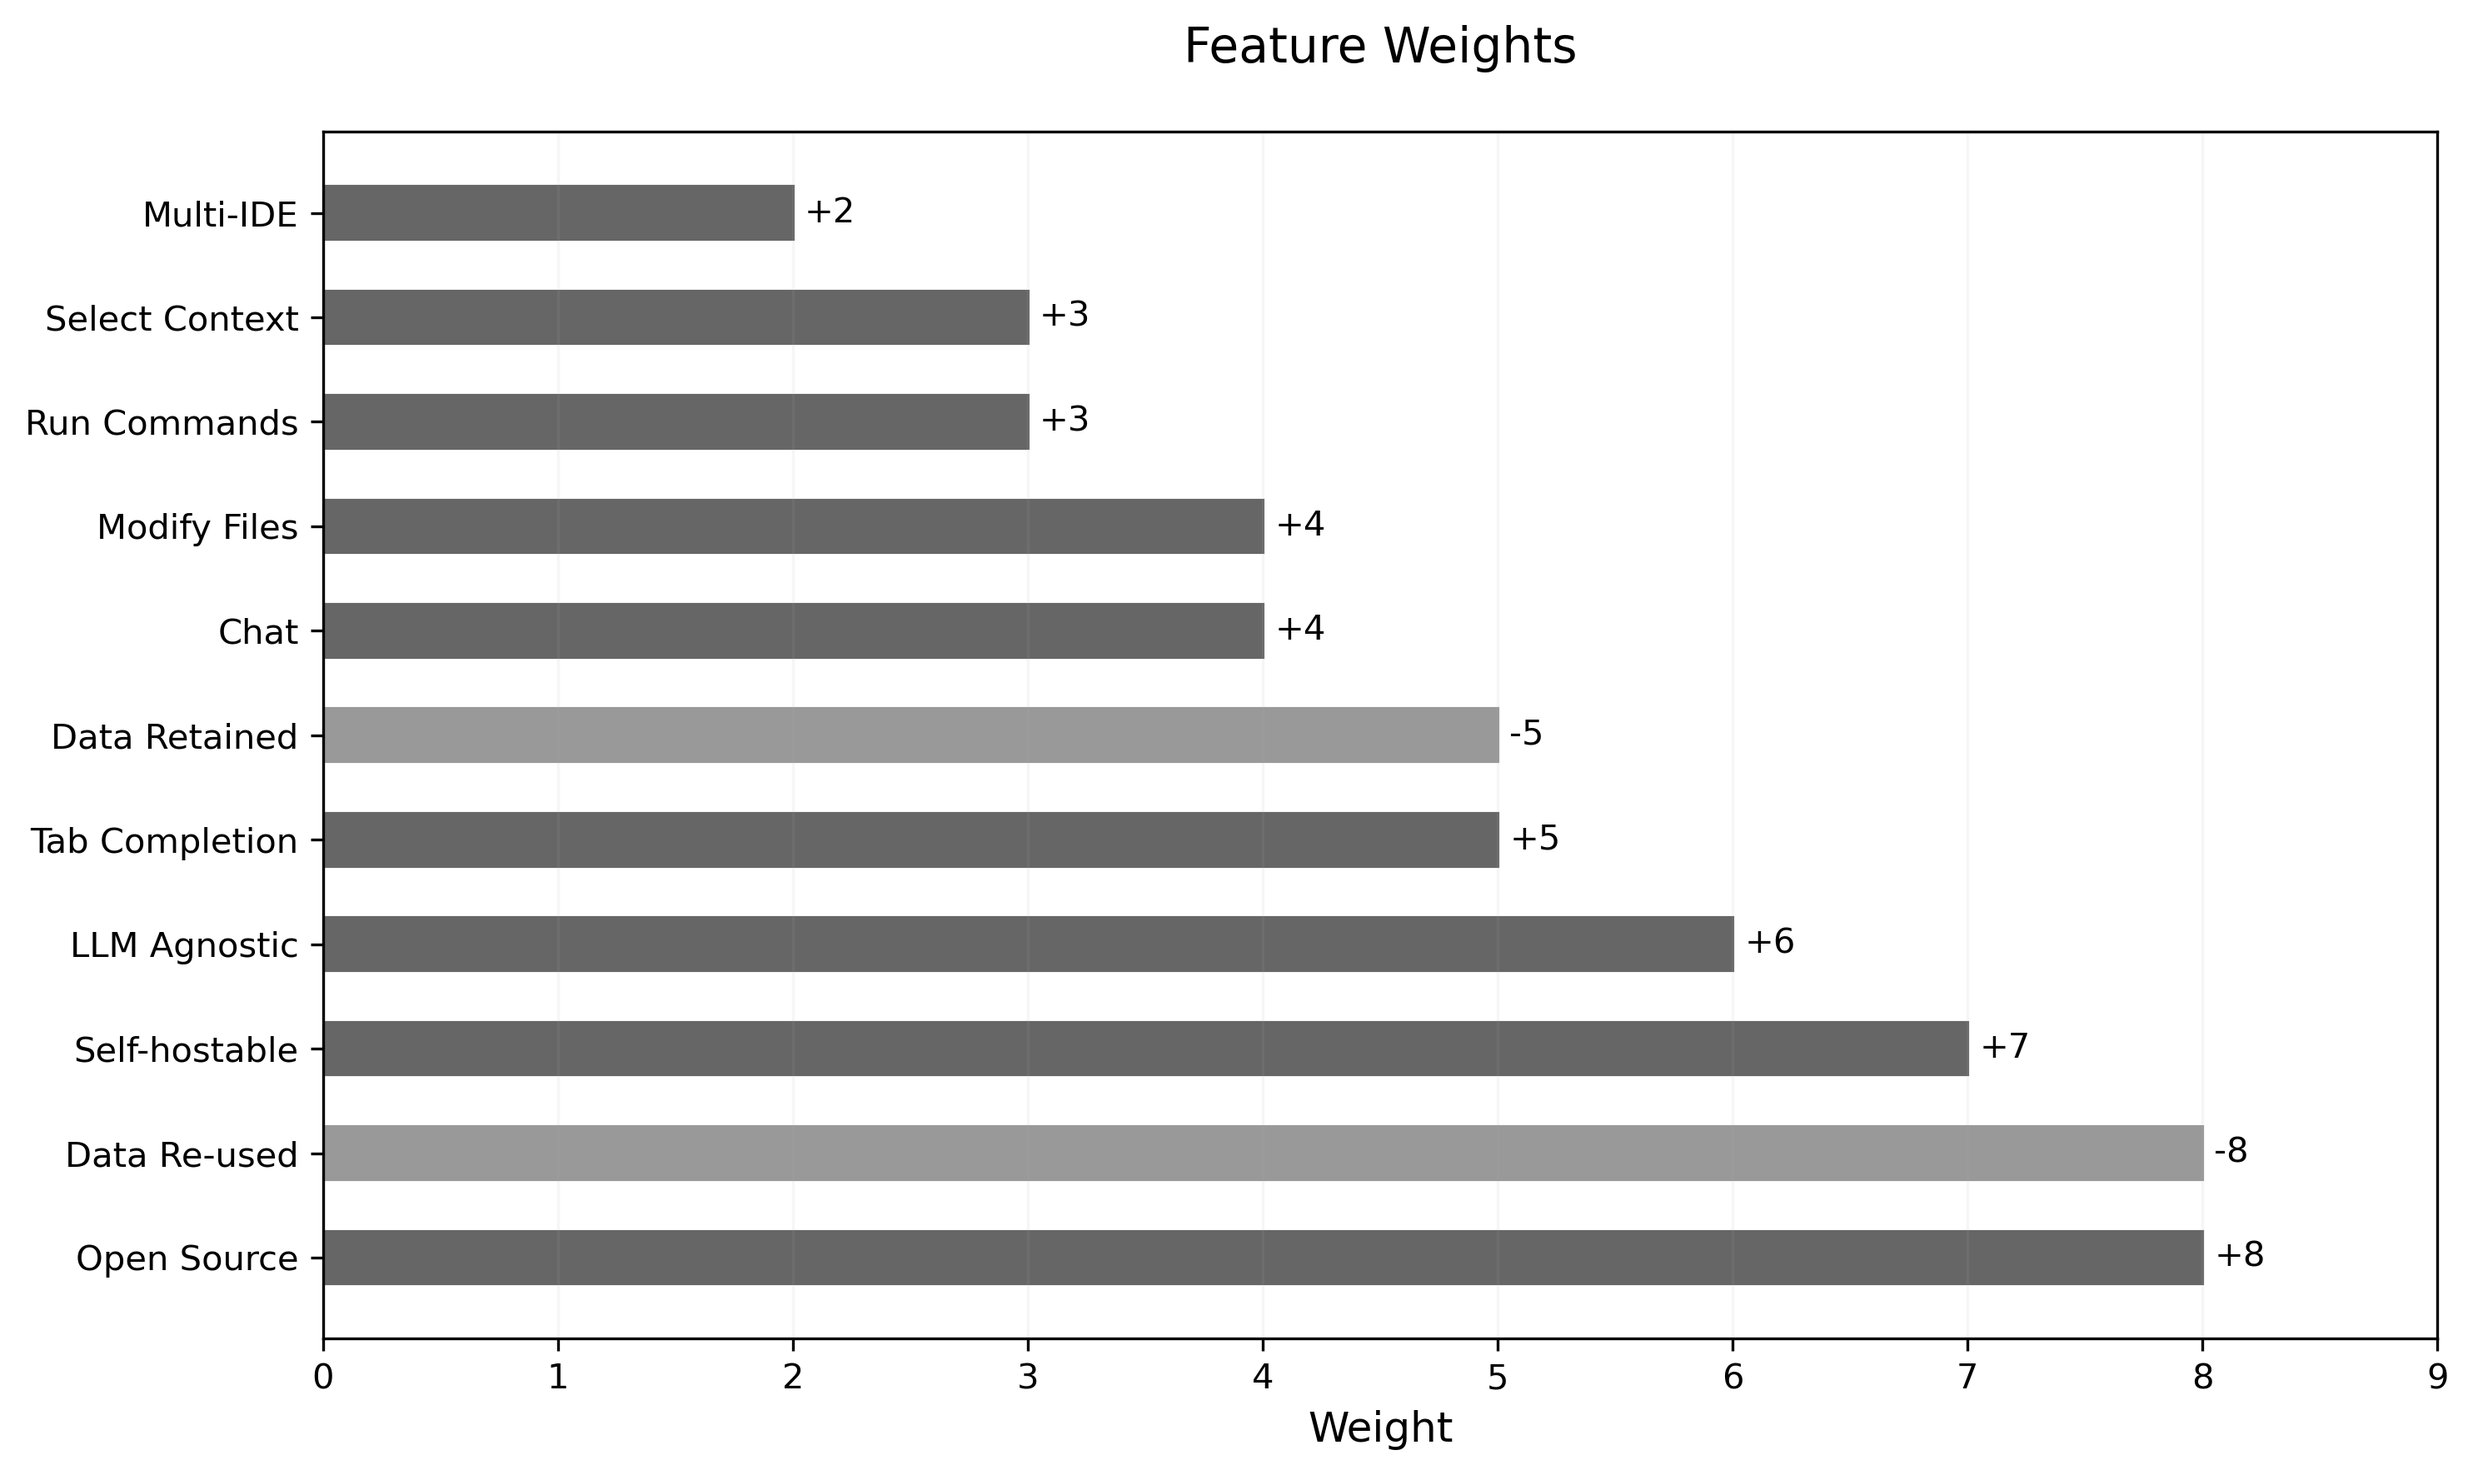
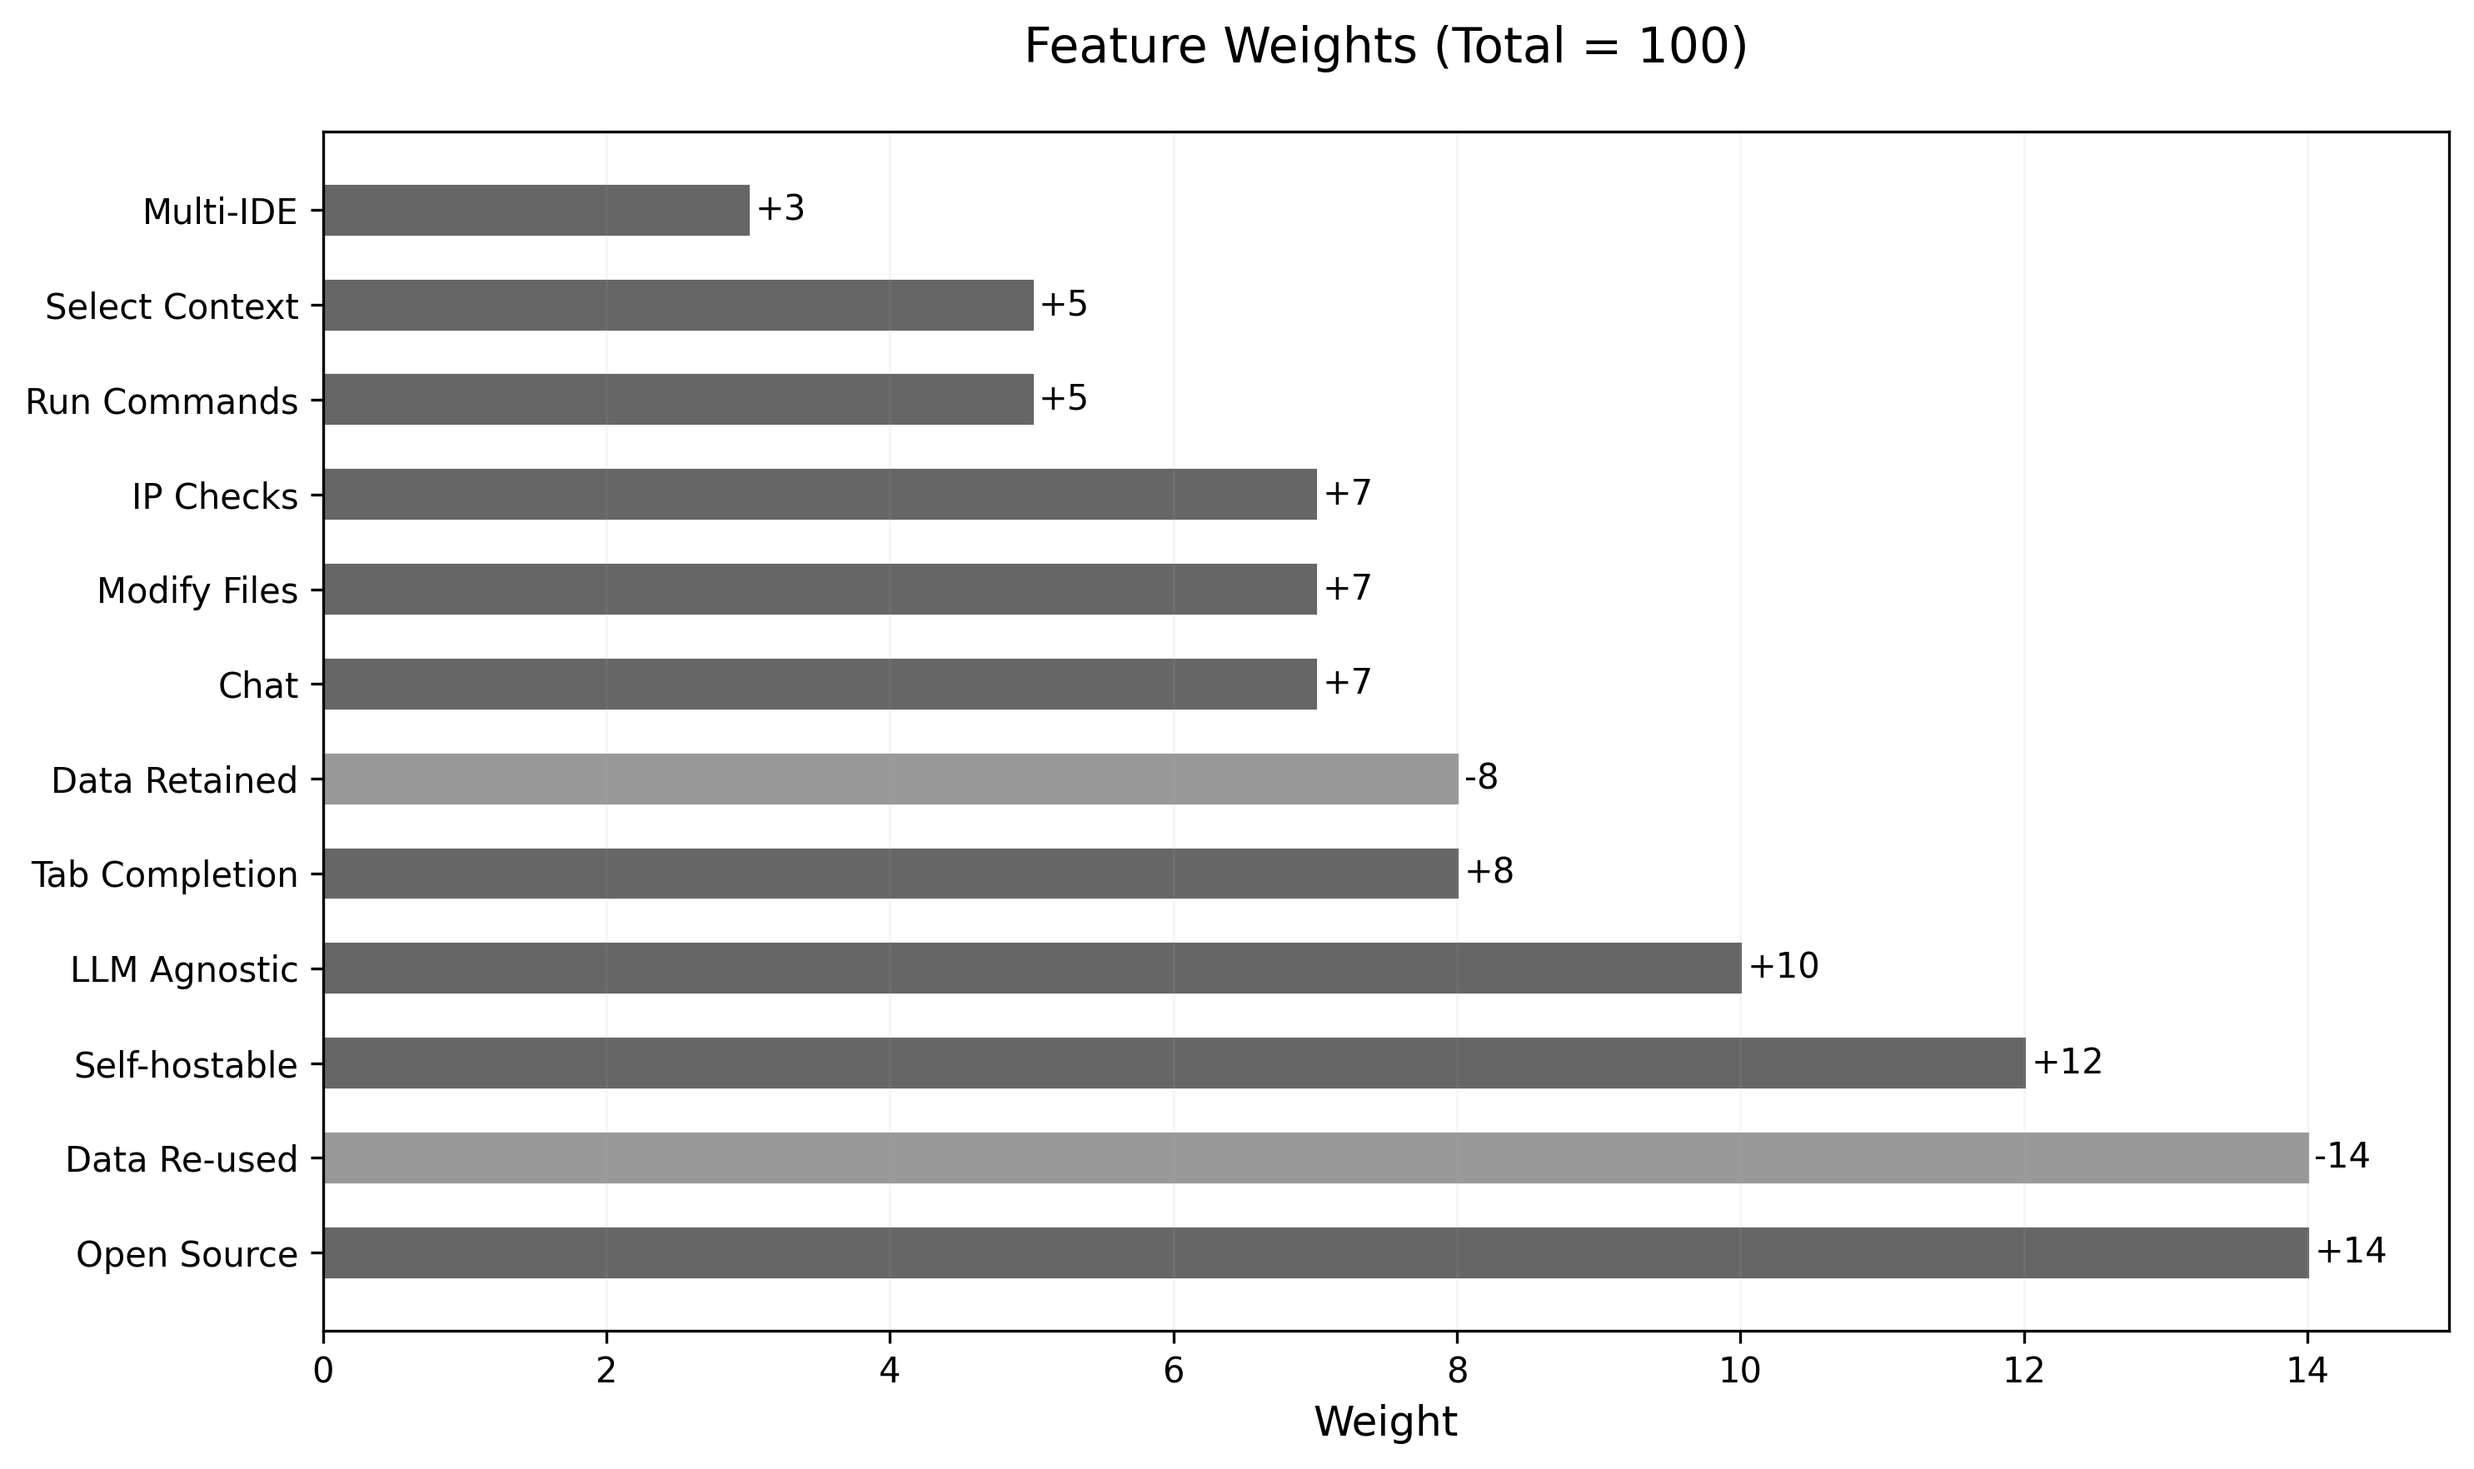
fix ip check

diff --git a/generate_feature_weights_plot.py b/generate_feature_weights_plot.py
@@ -3,10 +3,10 @@ import matplotlib.pyplot as plt
 import numpy as np
 
 def create_feature_weights_plot():
-    """Create a plot showing the weights of different features."""
-    
-    # Define feature weights (positive = good, negative = bad)
-    feature_weights = {
+    """Create a plot showing normalized weights (total = 100) for features."""
+
+    # Base weights aligned with generate_feature_plot.py (positives vs negatives)
+    base_feature_weights = {
         'Open Source': 8,
         'Self-hostable': 7,
         'LLM Agnostic': 6,
@@ -16,61 +16,78 @@ def create_feature_weights_plot():
         'Run Commands': 3,
         'Select Context': 3,
         'Multi-IDE': 2,
-        'Data Retained': -5,
-        'Data Re-used': -8
+        'Data Retained': -5,   # awarded when "No"
+        'Data Re-used': -8,    # awarded when "No"
+        'IP Checks': 4         # awarded when "Yes"
     }
-    
-    # Sort features by absolute weight value
-    sorted_features = dict(sorted(feature_weights.items(), key=lambda x: abs(x[1]), reverse=True))
-    
+
+    # Normalize absolute weights to sum to 100 and round preserving total
+    total_abs = sum(abs(w) for w in base_feature_weights.values())
+    scaled = {k: abs(v) * (100.0 / total_abs) for k, v in base_feature_weights.items()}
+
+    items = sorted(scaled.items(), key=lambda kv: kv[1], reverse=True)
+    rounded_abs = {k: int(v) for k, v in items}
+    remainder = 100 - sum(rounded_abs.values())
+    if remainder != 0:
+        fractions = sorted(((k, scaled[k] - int(scaled[k])) for k, _ in items), key=lambda kv: kv[1], reverse=True)
+        idx = 0
+        step = 1 if remainder > 0 else -1
+        while remainder != 0 and idx < len(fractions):
+            k = fractions[idx][0]
+            new_val = rounded_abs[k] + step
+            if new_val >= 0:
+                rounded_abs[k] = new_val
+                remainder -= step
+            idx = (idx + 1) % len(fractions)
+
+    # Apply original signs to the rounded magnitudes for labeling
+    signed_weights = {k: (rounded_abs[k] if base_feature_weights[k] > 0 else -rounded_abs[k]) for k in rounded_abs}
+
+    # Sort by absolute value for display
+    sorted_features = dict(sorted(signed_weights.items(), key=lambda x: abs(x[1]), reverse=True))
+
     # Prepare data
     features = list(sorted_features.keys())
-    weights = list(sorted_features.values())
-    
+    weights_signed = list(sorted_features.values())
+    abs_weights = [abs(w) for w in weights_signed]
+
     # Create figure
     plt.figure(figsize=(10, 6))
-    
-    # Create horizontal bars - all extending to the right using absolute values
+
+    # Create horizontal bars with absolute values
     y_pos = np.arange(len(features))
-    abs_weights = [abs(w) for w in weights]
     bars = plt.barh(y_pos, abs_weights, height=0.5)
-    
+
     # Color bars based on positive/negative values
-    for bar, weight in zip(bars, weights):
-        if weight > 0:
-            bar.set_color('#666666')
-        else:
-            bar.set_color('#999999')
-    
+    for bar, w in zip(bars, weights_signed):
+        bar.set_color('#666666' if w > 0 else '#999999')
+
     # Customize plot
-    plt.title('Feature Weights', fontsize=14, pad=20)
+    plt.title('Feature Weights (Total = 100)', fontsize=14, pad=20)
     plt.xlabel('Weight', fontsize=12)
-    
+
     # Set y-axis labels
     plt.yticks(y_pos, features)
-    
+
     # Add gridlines
     plt.grid(axis='x', alpha=0.1, linestyle='-')
-    
+
     # Add value labels after the bars
-    for i, weight in enumerate(weights):
-        abs_weight = abs(weight)
-        # Position label after the bar
-        x_pos = abs_weight + 0.05
-        plt.text(x_pos, i, f'{weight:+d}', 
-                ha='left', va='center')
-    
+    for i, w in enumerate(weights_signed):
+        x_pos = abs(w) + 0.05
+        plt.text(x_pos, i, f'{w:+d}', ha='left', va='center')
+
     # Set x-axis limits to accommodate labels
-    max_weight = max(abs_weights)
+    max_weight = max(abs_weights) if abs_weights else 0
     plt.xlim(0, max_weight + 1)
-    
+
     # Adjust layout
     plt.tight_layout()
-    
+
     # Save plot
     plt.savefig('feature_weights.png', dpi=300, bbox_inches='tight', facecolor='white')
     plt.close()
-    
+
     print("\nFeature weights plot saved as 'feature_weights.png'")
 
 def main():

diff --git a/generate_feature_plot.py b/generate_feature_plot.py
@@ -10,21 +10,46 @@ def create_feature_plot():
         # Read the features.txt file
         df = pd.read_csv('features.txt', sep='\t')
         
-        # Define feature weights (positive = good, negative features award points when absent)
-        # Total: 100 points
-        feature_weights = {
-            'Open Source': 15,      # 8 * 1.82 ≈ 15
-            'Self-hostable': 13,    # 7 * 1.82 ≈ 13
-            'LLM Agnostic': 11,     # 6 * 1.82 ≈ 11
-            'Tab Completion': 9,    # 5 * 1.82 ≈ 9
-            'Chat': 7,              # 4 * 1.82 ≈ 7
-            'Modify Files': 7,      # 4 * 1.82 ≈ 7
-            'Run Commands': 5,      # 3 * 1.82 ≈ 5
-            'Select Context': 5,    # 3 * 1.82 ≈ 5
-            'Multi-IDE': 4,         # 2 * 1.82 ≈ 4
-            'Data Retained': 9,     # 5 * 1.82 ≈ 9 (awarded when "No")
-            'Data Re-used': 15      # 8 * 1.82 ≈ 15 (awarded when "No")
+        # Define base feature weights (positive = good, negative features are bad)
+        # We'll normalize absolute weights so the total available points = 100
+        base_feature_weights = {
+            'Open Source': 8,
+            'Self-hostable': 7,
+            'LLM Agnostic': 6,
+            'Tab Completion': 5,
+            'Chat': 4,
+            'Modify Files': 4,
+            'Run Commands': 3,
+            'Select Context': 3,
+            'Multi-IDE': 2,
+            'Data Retained': -5,   # awarded when "No"
+            'Data Re-used': -8,    # awarded when "No"
+            'IP Checks': 4         # awarded when "Yes" (compliance/IP safety)
         }
+
+        # Normalize to 100 total points using absolute values
+        total_abs = sum(abs(w) for w in base_feature_weights.values())
+        scaled = {k: abs(v) * (100.0 / total_abs) for k, v in base_feature_weights.items()}
+
+        # Round while preserving total = 100
+        items = sorted(scaled.items(), key=lambda kv: kv[1], reverse=True)
+        rounded = {k: int(v) for k, v in items}
+        remainder = 100 - sum(rounded.values())
+        if remainder != 0:
+            # Distribute remainder by fractional parts (largest fractions first)
+            fractions = sorted(((k, scaled[k] - int(scaled[k])) for k, _ in items), key=lambda kv: kv[1], reverse=True)
+            idx = 0
+            step = 1 if remainder > 0 else -1
+            while remainder != 0 and idx < len(fractions):
+                k = fractions[idx][0]
+                new_val = rounded[k] + step
+                if new_val >= 0:
+                    rounded[k] = new_val
+                    remainder -= step
+                idx = (idx + 1) % len(fractions)
+
+        # Final integer weights used for scoring
+        feature_weights = rounded
         
         # Calculate scores for each tool
         tool_scores = {}
@@ -93,7 +118,9 @@ def create_feature_plot():
         # Print feature weights for reference
         print("\nFeature weights used:")
         for feature, weight in feature_weights.items():
-            print(f"{feature}: {weight:+d}")
+            # Show sign for clarity: negative-weight features are awarded when "No"
+            sign = '-' if feature in ['Data Retained', 'Data Re-used'] else '+'
+            print(f"{feature}: {sign}{weight}")
         
     except Exception as e:
         print(f"Error creating feature plot: {e}")
